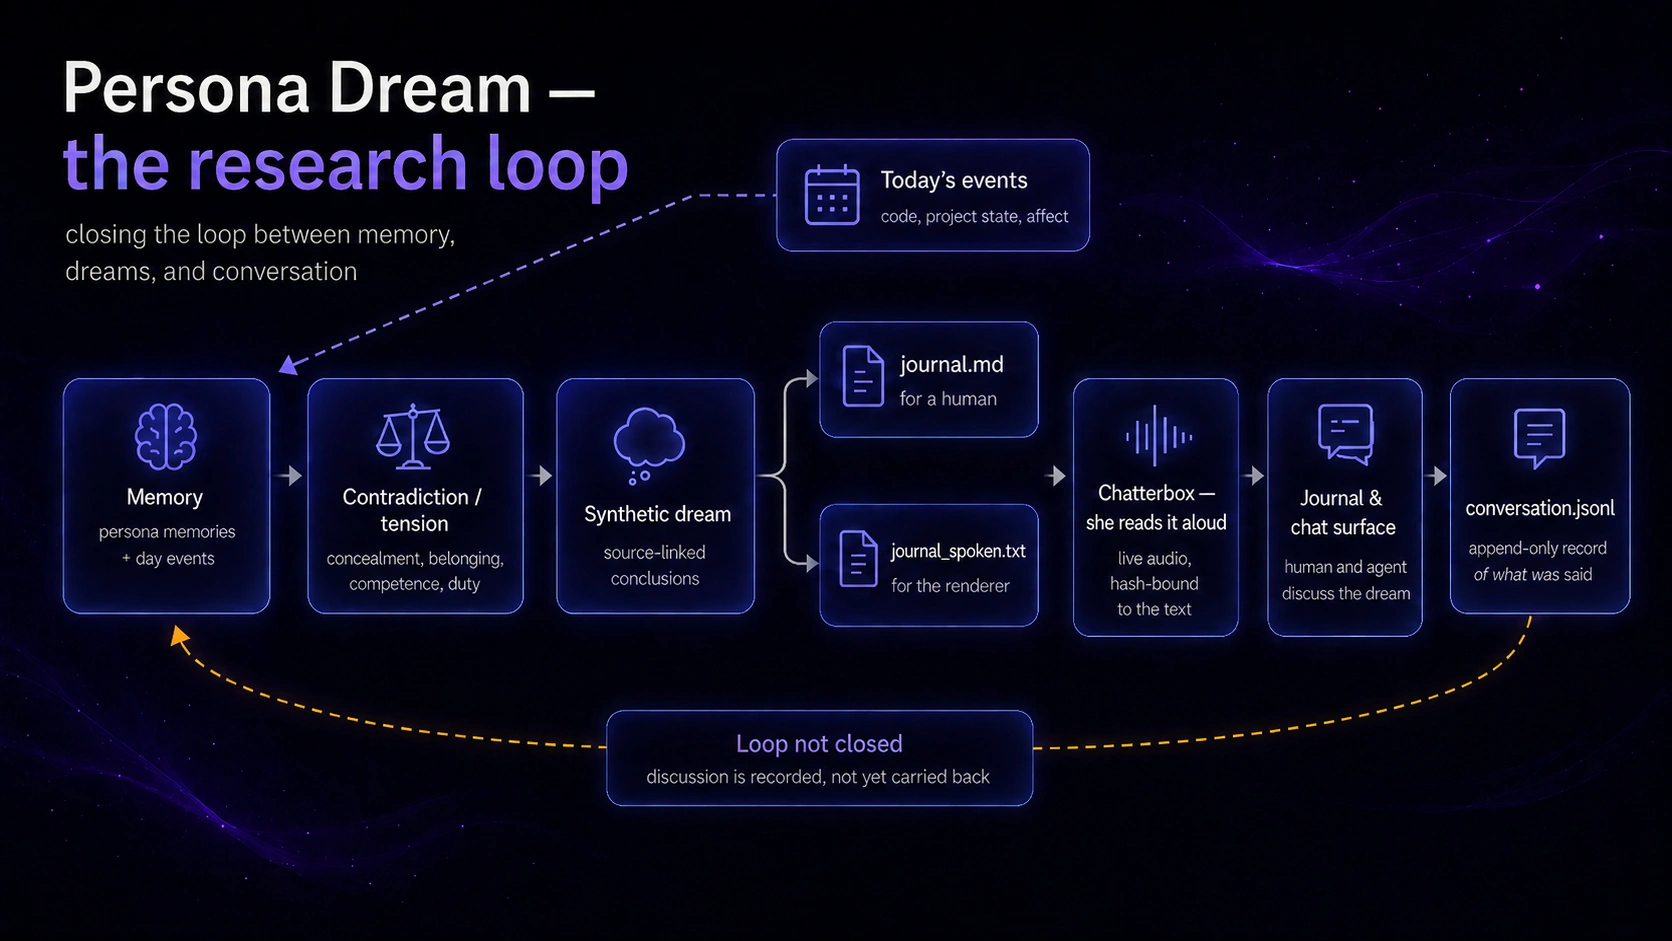
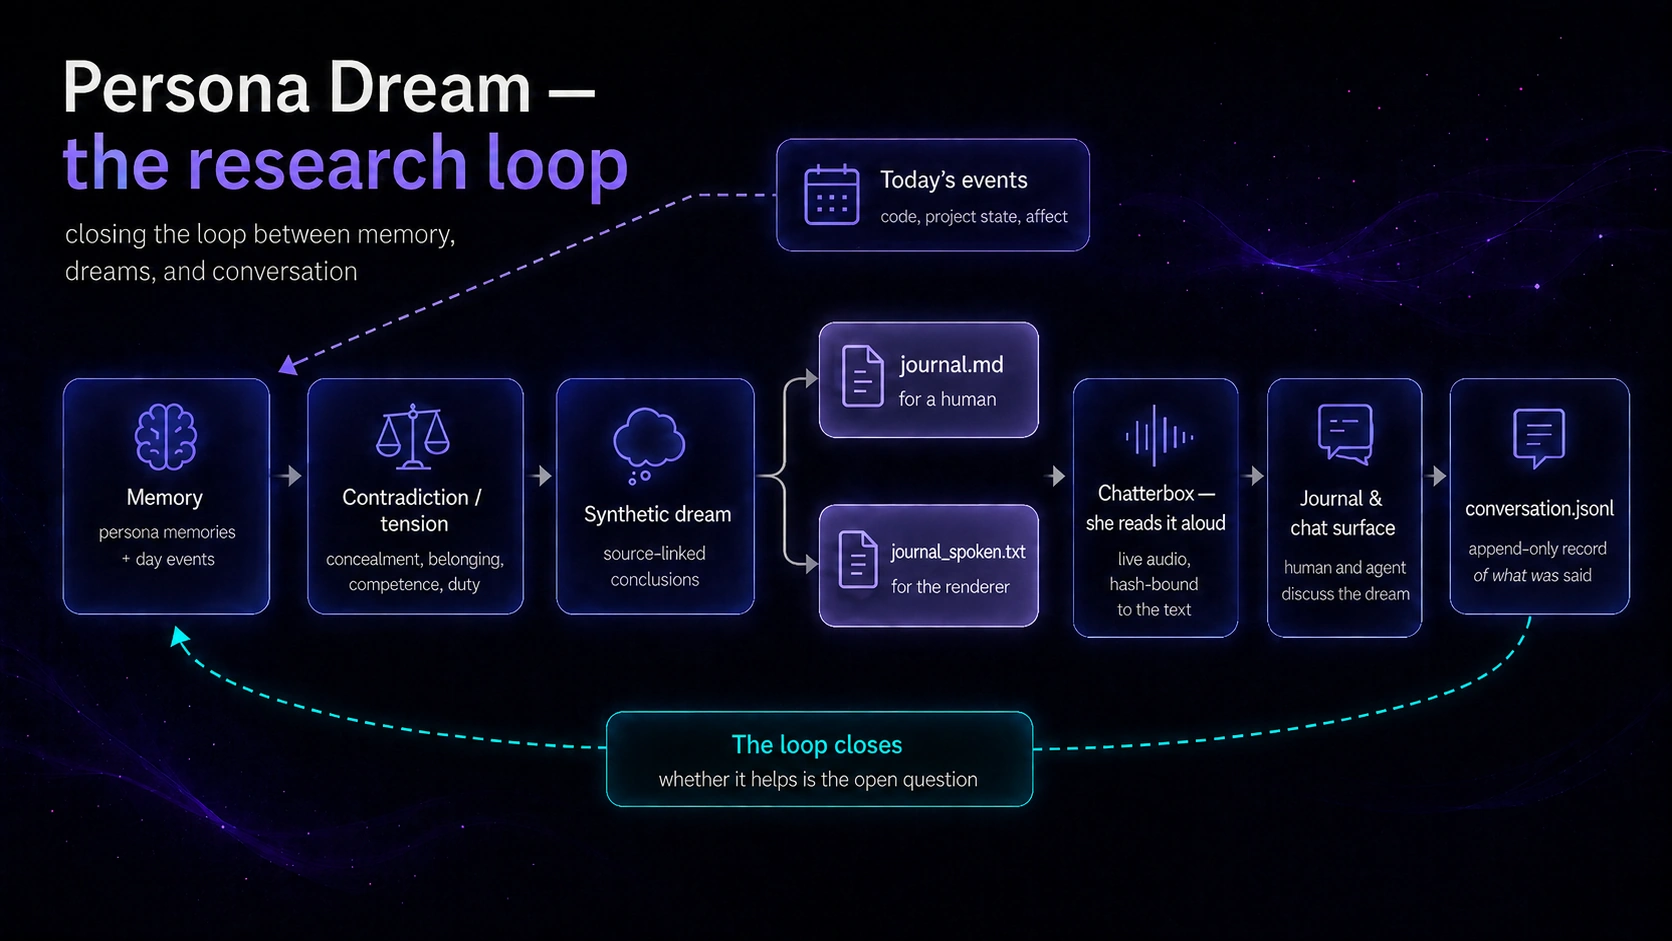
persona-dream: header now shows the closed loop and names the open question
The previous header said the loop was not closed. It closes as of 2b6cd2ce3, so
the picture was wrong within the hour -- the third time this image drifted in a
day, which is why it carries no per-box status colouring at all.

What colour it does carry is structural, and structure does not drift. The
return arc is teal against the violet forward path, because it is a different
kind of edge and it is the whole thesis: everything left of it is one-way, and
the project only becomes a loop at that arrow. The two journal outputs share a
lighter violet so the human-facing and renderer-facing forms read as the pair
they are.

The callout is now the research question rather than a status: "The loop closes
/ whether it helps is the open question". That is the most stable sentence
available -- it stays true until the controlled ablations run -- and it is the
right thing for a reader to leave with. A closed loop invites "so does it
work?", and the honest answer is that we do not know yet and that is the
experiment.

Encoded with Pillow to WebP at quality 95: 1.78 MB to 180 KB. Alt text rewritten
to describe the full cycle, since the header is the first thing a screen reader
reaches.

diff --git a/skills/persona-dream/README.md b/skills/persona-dream/README.md
@@ -1,6 +1,6 @@
 # Persona Dream
 
-![Persona Dream — the research loop: memory becomes a dream, the dream becomes a journal she reads aloud, the journal becomes a conversation, and the conversation must return to memory](assets/readme/research-loop.webp)
+![Persona Dream — the research loop: the day and prior conversation enter memory, memory yields a tension, the tension yields a dream, the dream becomes a journal Embry reads aloud, and the discussion returns to memory. The loop closes; whether it helps is the open question.](assets/readme/research-loop.webp)
 
 Persona Dream gives a persistent multimodal voice persona — a long-lived agent
 with durable memory, a stable character, and access to text, images, audio, and
